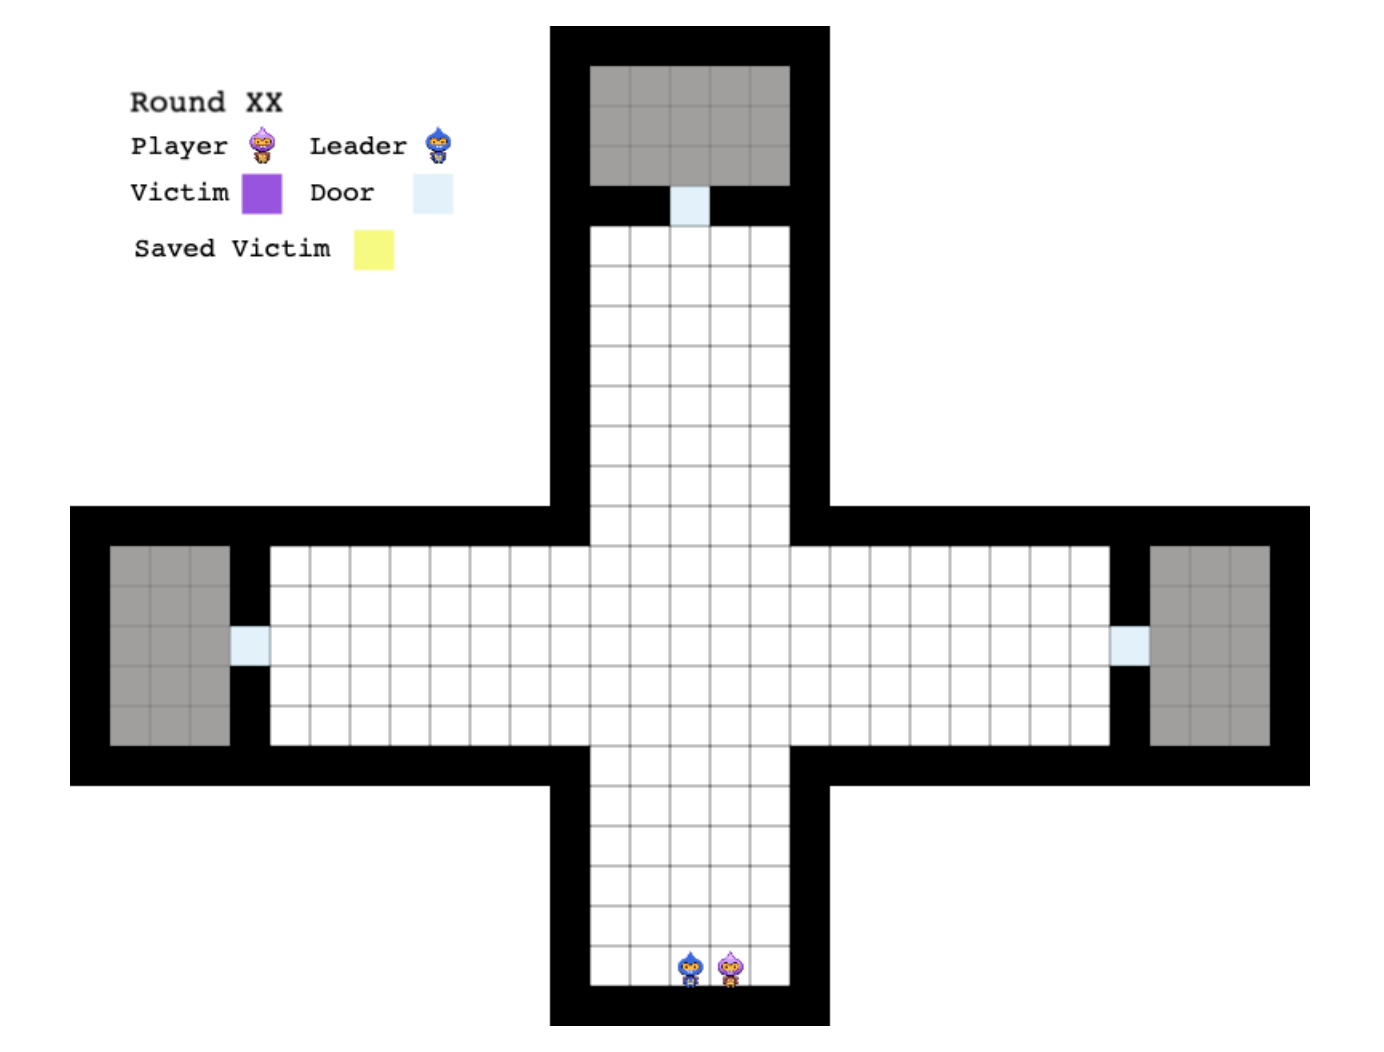
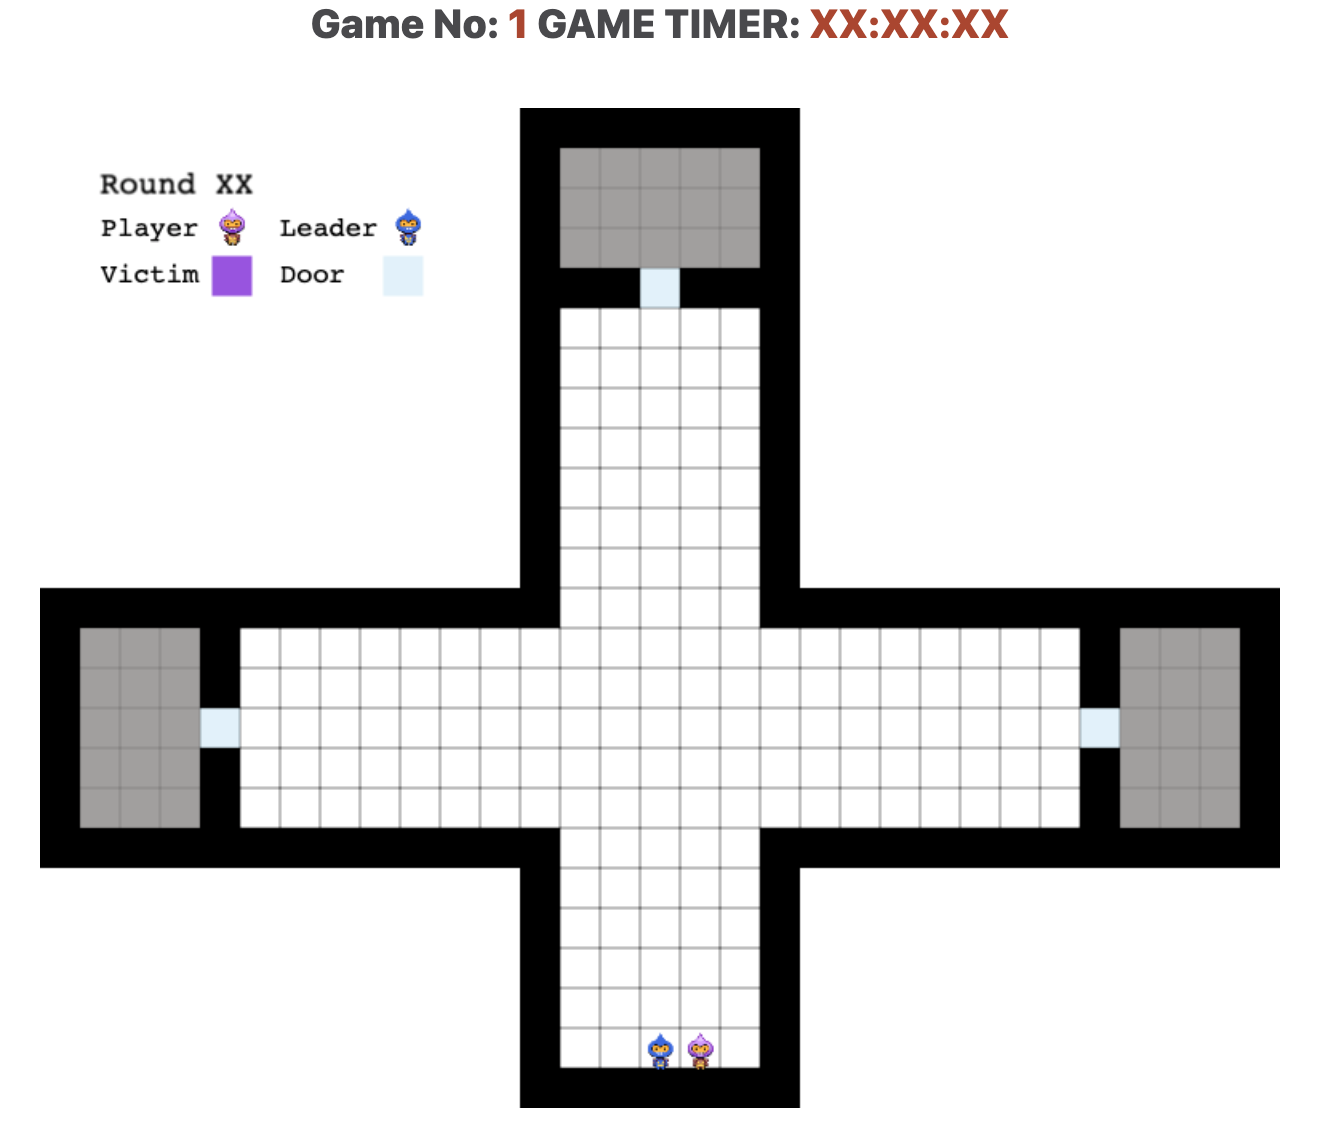
Change size of the layout(decrease) to fit the mturk screen

Changed region(s): [[0.0309, 0.0, 0.9894, 0.9734], [0.0618, 0.0913, 0.3401, 0.2738]]

diff --git a/public/index.html b/public/index.html
@@ -46,34 +46,36 @@
         </div>
     </div>
   </div>
-  <div id="mainInfo" style="display: none; margin-top: 5%; margin-left: 5%;">
+  <div id="mainInfo" style="display: none; margin-top: 5%; margin-left: 5%; margin-bottom: 20%; margin-right:5%;">
         <div class="row">
           <div class="col">
             <h3>
               INSTRUCTIONS.
             </h3>
+            <p>
+              There are three rooms at the end of each of the three hallways. One of these rooms has a victim.
+              You are teamed up with a knowledgeable leader who knows where the victim is but does not have the ability to save the victim.
+              Your goal is to save the victim in the number of rounds and time limit provided.
+            </p>
             <ul>
               <li>
-                The game has three rooms and one victim located in one of the room.
-                Each movement of the player in any direction is counted as one round.
-                The goal of the game is to save victim in 40 rounds and under 2 minutes.
+                A snapshot of the beginning of the game is shown on the right.
               </li>
               <li>
-                The room view is blocked to hide the presence of the victim in it.
-                The view can be unblocked to see the victim as soon as player reaches the door located at the entrance of the room indicated by light blue square box.
-                Victims are represented by purple colored square box that turns yellow when saved.
+                Each movement in any direction is counted as one round.
               </li>
               <li>
-                Victims can be saved from any of the adjacent location by pressing r key.
-                Player can use the up, down, left, and right key for movement in the game.
+                You can use the up, down, left, and right key for movement in the game.
+                Victims can be saved from any of the adjacent locations by pressing the “r” key.
               </li>              
               <li>
-                There is a bot(leader) in the game who knows which room contains the victim and may lead the player to the correct room.
+                A room’s view is blocked until you reach its door indicated by the light blue square.
+                The victim is represented by the purple square.
               </li>            
-              <li>
-                The view of the game would be similar to the picture that can be seen on this screen.
-              </li>
             </ul>
+            <p>
+              You will be asked to play this game 5 different times. The entire experiment should take about 5 minutes.
+            </p>
             <div>
               <a class="btn btn-primary btn-md" id="join-room">
                 Click to Join Game Room
@@ -81,13 +83,13 @@
             </div>
           </div>
           <div class="col">
-            <h3 style="text-align:center;">GAME VIEW IMAGE</h3>
+            <!-- <h3 style="text-align:center;">GAME VIEW IMAGE</h3> -->
             <img src="/assets/gameMap.png" class="image-responsive" style="width: 100%;">
           </div>
         </div>
   </div>  
  
-  <div style='display: none; justify-content: center; margin-top: 5%;' id='phaser-game'>
+  <div style='display: none; justify-content: center; margin-top: 5%; margin' id='phaser-game'>
     <div id="game-time">
       <span id="sessionTitle">Game No: </span><span id='sessionId'></span><span id="timerTitle">  GAME TIMER:</span><span id='timerTime'></span>
     </div> 

diff --git a/public/js/index.js b/public/js/index.js
@@ -121,19 +121,19 @@ var gamePlayState = new Phaser.Class({
 
     _drawGameInfo: function(){
         const playerInGameInfo = new PlayerDisplay(this, {"x": 16, "y":23, "name":"dude"});
-        playerInGameInfo.physicsObj.x = 120;
+        playerInGameInfo.physicsObj.x = 115;
         playerInGameInfo.physicsObj.y = 72;
 
         const leaderInGameInfo = new PlayerDisplay(this, {"x": 15, "y":23, "name":"chirag"});
-        leaderInGameInfo.physicsObj.x = 230;
+        leaderInGameInfo.physicsObj.x = 220;
         leaderInGameInfo.physicsObj.y = 72;
 
-        this.add.text(38,66, "Player", {color: '0x000000', fontSize: '17px'});
-        this.add.text(150,66, "Leader", {color: '0x000000', fontSize: '17px'});
-        this.add.text(38,95, "Victim", {color: '0x000000', fontSize: '17px'});          
-        this.add.rectangle(120,105, this.gameState.cw, this.gameState.ch, 0x9754e3);
-        this.add.text(150,95, "Door", {color: '0x000000', fontSize: '17px'});
-        this.add.rectangle(227,105, this.gameState.cw, this.gameState.ch, 0x9dd1ed, 0.3);
+        this.add.text(35,66, "Player", {color: '0x000000', fontSize: '17px'});
+        this.add.text(140,66, "Leader", {color: '0x000000', fontSize: '17px'});
+        this.add.text(35,95, "Victim", {color: '0x000000', fontSize: '17px'});
+        this.add.rectangle(115,105, this.gameState.cw, this.gameState.ch, 0x9754e3);
+        this.add.text(140,95, "Door", {color: '0x000000', fontSize: '17px'});
+        this.add.rectangle(210,105, this.gameState.cw, this.gameState.ch, 0x9dd1ed, 0.3);
         // this.add.text(40,130, "Saved Victim", {color: '0x000000', fontSize: '17px'});
         // this.add.rectangle(190,140, this.gameState.cw, this.gameState.ch, 0xf6fa78);
     },

diff --git a/public/js/config.js b/public/js/config.js
@@ -1,7 +1,7 @@
 var phaserConfig = {
     type: Phaser.AUTO,
-    width: 775,
-    height: 625,
+    width: 620,
+    height: 500,
     parent: 'phaser-game',
     backgroundColor:0xffffff,
     physics: {
